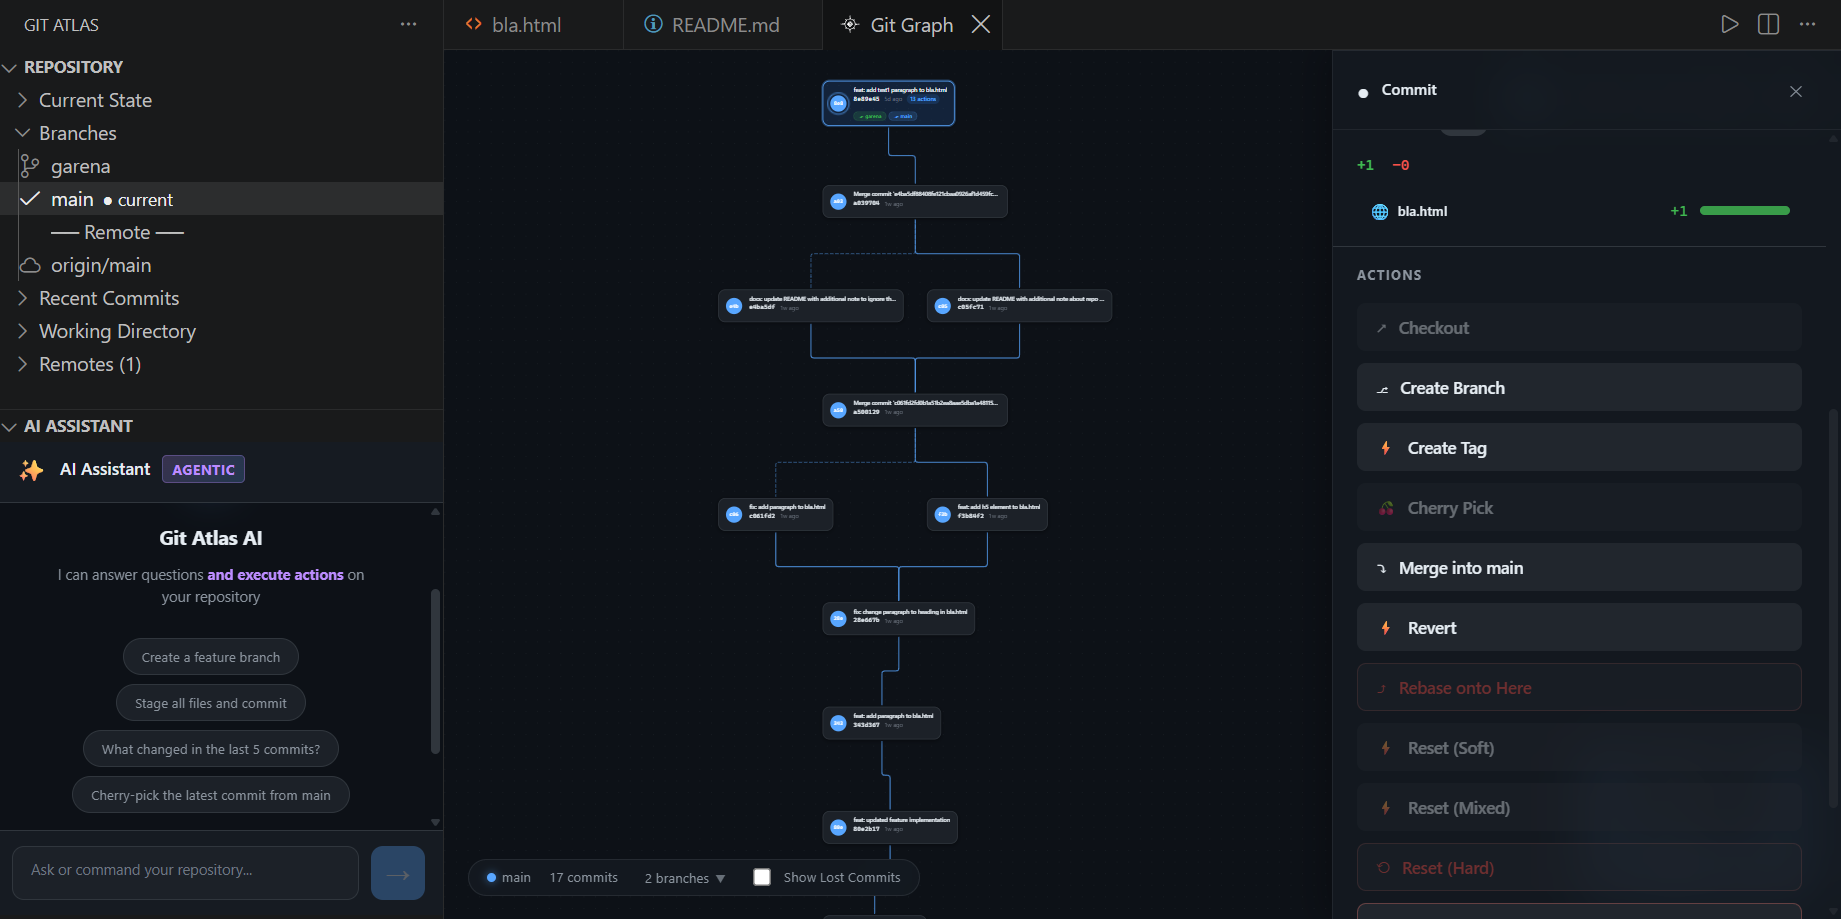
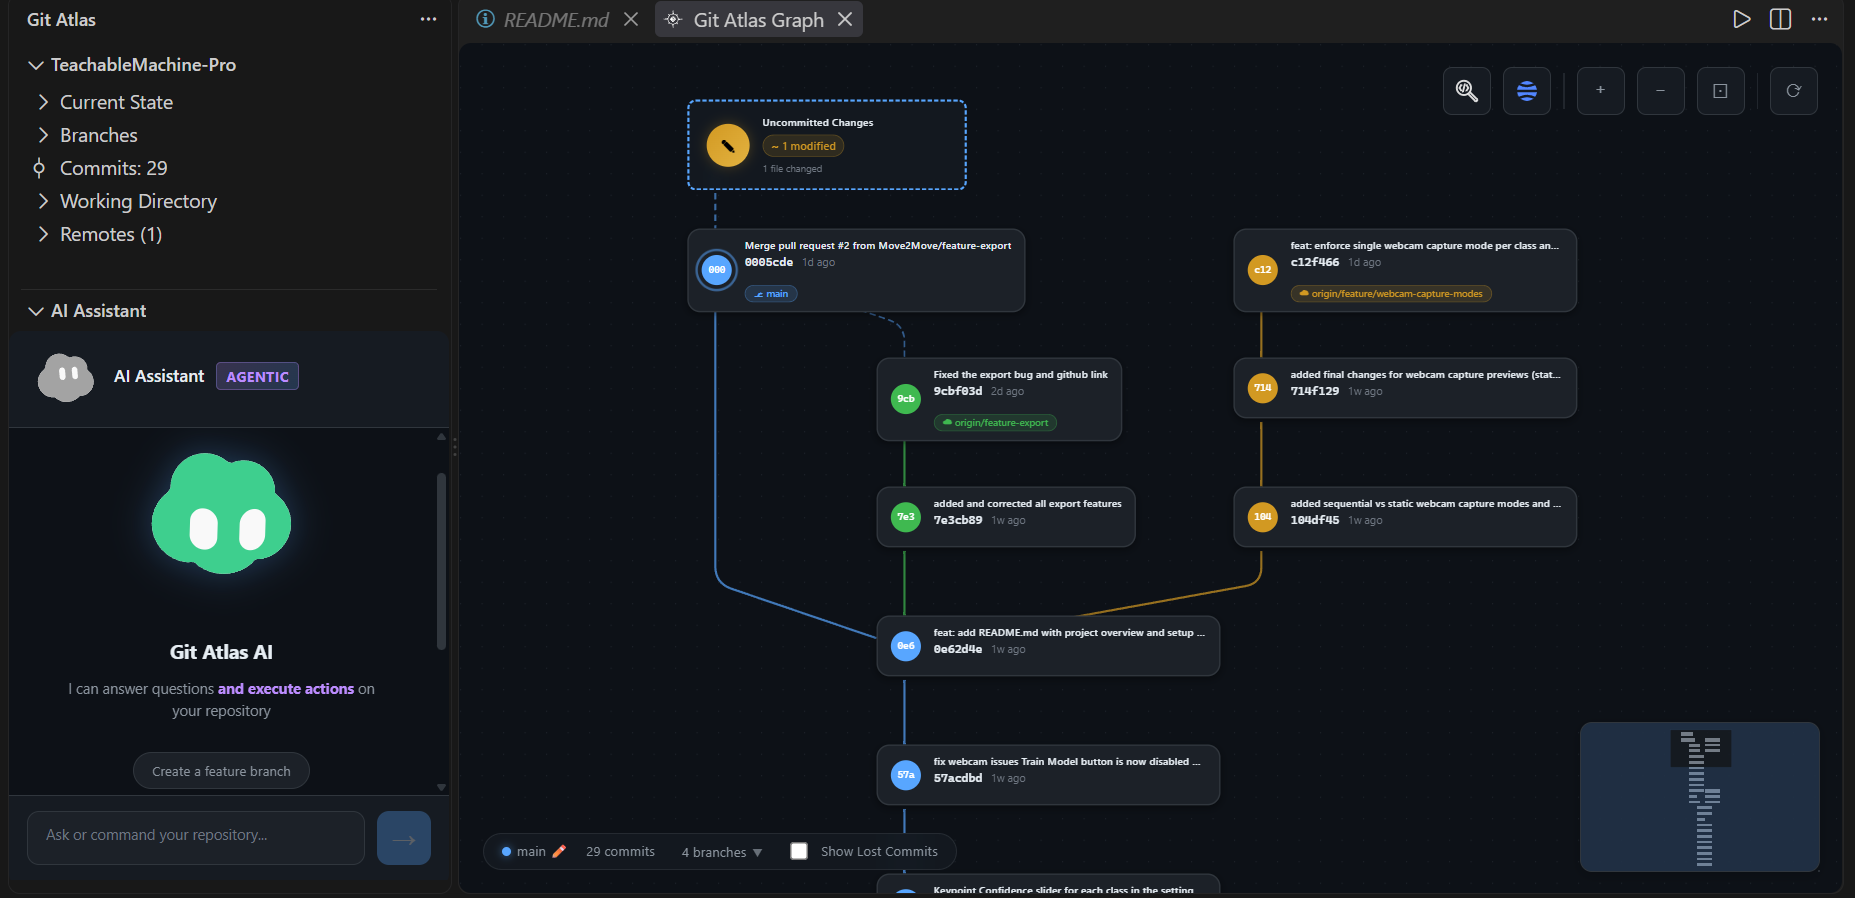
add include with previous commit button that does git comit --amend --noedit

diff --git a/src/providers/graph-panel.provider.ts b/src/providers/graph-panel.provider.ts
@@ -442,6 +442,55 @@ export class GraphPanelProvider extends DisposableBase {
         break;
       }
 
+      case 'amend-commit': {
+        const graph = this.stateEngine.graph;
+        if (!graph || !graph.headHash) break;
+        
+        let wasPushed = false;
+        try {
+          wasPushed = await this.gitService.isCommitPushed(graph.headHash);
+        } catch {
+          // Ignore
+        }
+
+        try {
+          await this.gitService.amendCommit();
+          await this.stateEngine.buildGraph();
+          if (this.stateEngine.graph?.nodes.has('working-directory')) {
+            await this.handleNodeSelected('working-directory');
+          }
+
+          if (wasPushed && graph.currentBranch) {
+            const forcePush = 'Force Push (--force-with-lease)';
+            const choice = await vscode.window.showWarningMessage(
+              `Git Atlas: Staged changes included. The previous commit was already pushed to the remote. ` +
+              `You need to force-push to update the remote branch "${graph.currentBranch}".`,
+              { modal: false },
+              forcePush
+            );
+            if (choice === forcePush) {
+              try {
+                await this.gitService.forcePushWithLease(graph.currentBranch);
+                await this.stateEngine.buildGraph();
+                vscode.window.showInformationMessage(
+                  `Git Atlas: Force-pushed "${graph.currentBranch}" to remote with --force-with-lease.`
+                );
+              } catch (pushErr: any) {
+                const pushErrMsg = pushErr.stderr?.trim() || pushErr.message || 'Unknown error';
+                vscode.window.showErrorMessage(
+                  `Git Atlas: Force-push failed — ${pushErrMsg}`
+                );
+              }
+            }
+          } else {
+            vscode.window.showInformationMessage('Git Atlas: Staged changes included with previous commit.');
+          }
+        } catch (err: any) {
+          vscode.window.showErrorMessage(`Git Atlas: Failed to amend commit — ${err.message}`);
+        }
+        break;
+      }
+
       case 'search-file-in-history': {
         const commits = await this.gitService.searchFileInHistory(message.filePath);
         this.postMessage({ type: 'file-search-results', filePath: message.filePath, commits });

diff --git a/webview/src/styles/inspector.css b/webview/src/styles/inspector.css
@@ -603,6 +603,35 @@
   cursor: not-allowed;
 }
 
+.secondary-commit-btn {
+  width: 100%;
+  padding: 6px var(--space-4);
+  background: var(--bg-hover);
+  color: var(--text-secondary);
+  border: 1px solid var(--border-subtle);
+  border-radius: var(--radius-md);
+  font-size: var(--text-xs);
+  font-weight: 500;
+  cursor: pointer;
+  display: flex;
+  align-items: center;
+  justify-content: center;
+  gap: 6px;
+  margin-top: 6px;
+  transition: all var(--duration-fast) var(--ease-out);
+}
+
+.secondary-commit-btn:hover:not(:disabled) {
+  background: var(--bg-active);
+  color: var(--text-primary);
+  border-color: var(--border-hover);
+}
+
+.secondary-commit-btn:disabled {
+  opacity: 0.5;
+  cursor: not-allowed;
+}
+
 /* ── Changes Section ─────────────────────────────────────────── */
 .changes-section {
   display: flex;

diff --git a/webview/src/components/NodeInspector.tsx b/webview/src/components/NodeInspector.tsx
@@ -542,6 +542,17 @@ export function NodeInspector() {
                         ✓ Commit to {currentBranch ?? 'HEAD'} ({stagedCount > 0 ? `${stagedCount} staged` : `${totalCount} all`})
                       </button>
 
+                      {/* Amend Commit Button */}
+                      <button
+                        className="secondary-commit-btn"
+                        disabled={stagedCount === 0}
+                        onClick={() => {
+                          postMessage({ type: 'amend-commit' });
+                        }}
+                      >
+                        Include with previous commit ({stagedCount} staged)
+                      </button>
+
                       {/* Conflicted Files Section */}
                       {conflictedFiles.length > 0 && (
                         <div className="changes-section conflicted-section">

diff --git a/webview/src/types.ts b/webview/src/types.ts
@@ -278,6 +278,7 @@ export type WebviewToExtensionMessage =
   | { type: 'discard-file'; path: string }
   | { type: 'generate-commit-message' }
   | { type: 'commit-staged'; message: string }
+  | { type: 'amend-commit' }
   | { type: 'search-file-in-history'; filePath: string }
   | { type: 'purge-file-from-history'; filePath: string }
   | { type: 'check-mergeability'; nodeId: string; ref: string };

diff --git a/src/services/git.service.ts b/src/services/git.service.ts
@@ -904,6 +904,10 @@ export class GitService {
     await this.exec(['commit', '-m', message]);
   }
 
+  async amendCommit(): Promise<void> {
+    await this.exec(['commit', '--amend', '--no-edit']);
+  }
+
   async stageFile(relativePath: string): Promise<void> {
     await this.exec(['add', relativePath]);
   }
